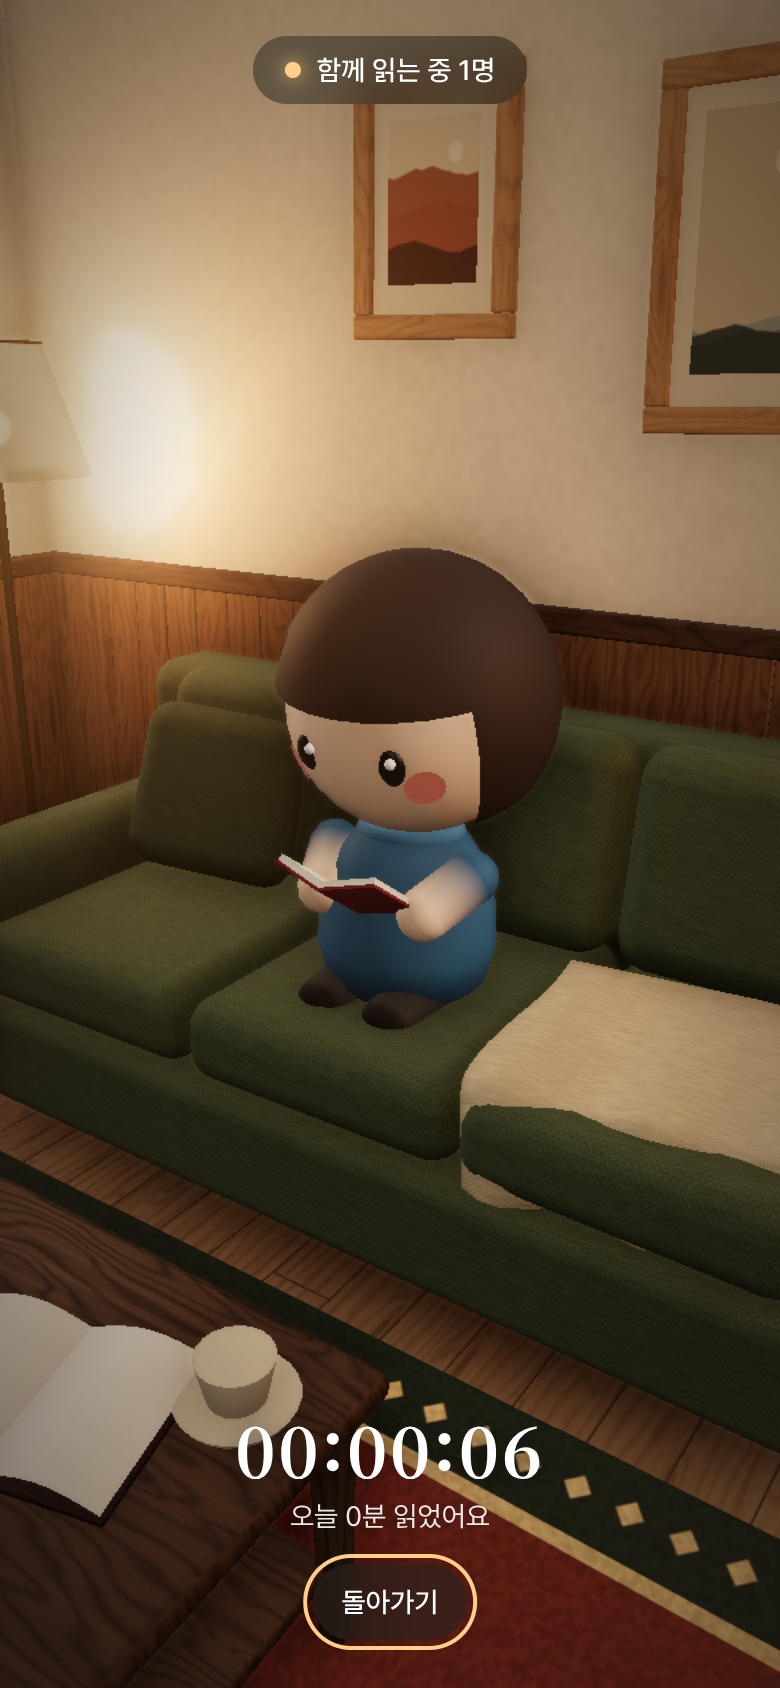
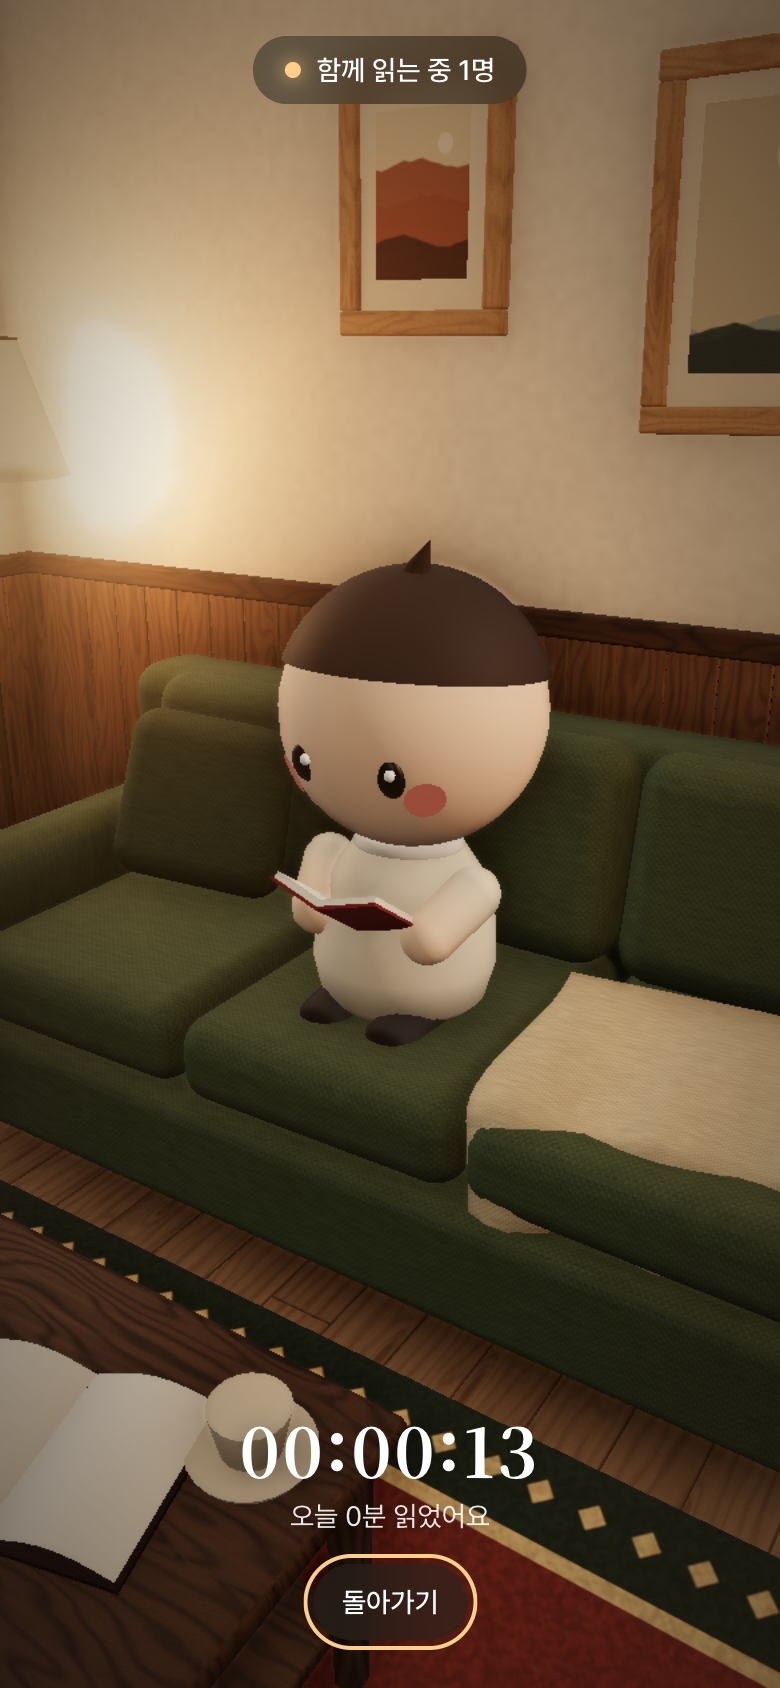
단계 8: e2e 전체 통과, 최종 캡처·REVIEW 재판정, README 완성
- ws 모드도 pagehide에서 바로 leave (탭 닫힘이 늦게 반영되던 문제)
- 기본 아바타 시점을 조금 올려 서가가 더 보이게 (22°, 시선 0.9m)
- 성능 재측정, PROGRESS·REVIEW·README 갱신

diff --git a/src/net/wsPresence.ts b/src/net/wsPresence.ts
@@ -25,6 +25,9 @@ export class WsPresence extends PeerTracker implements Presence {
   private lastSent = 0;
   private pending = 0;
 
+  /** 탭을 닫을 때 서버의 하트비트 정리(최대 20초)를 기다리지 않고 바로 나갔다고 알린다 */
+  private onHide = () => this.disconnect();
+
   constructor(private url: string) {
     super();
   }
@@ -38,6 +41,7 @@ export class WsPresence extends PeerTracker implements Presence {
     this.selfId = me.id;
     this.attempt = 0;
     this.setStatus('connecting');
+    addEventListener('pagehide', this.onHide);
     return new Promise((resolve) => this.open(resolve));
   }
 
@@ -93,6 +97,7 @@ export class WsPresence extends PeerTracker implements Presence {
   }
 
   disconnect(): void {
+    removeEventListener('pagehide', this.onHide);
     this.closedByUser = true;
     clearTimeout(this.retry);
     clearInterval(this.heartbeat);

diff --git a/src/app.ts b/src/app.ts
@@ -89,7 +89,7 @@ export async function startApp(params: Params, canvas: HTMLCanvasElement, loadin
 
   const follow = new FollowCamera(camera, SPAWN.ry + Math.PI);
   follow.reducedMotion = reducedMotion();
-  const fitLook = () => (follow.lookHeight = camera.aspect < 0.8 ? 1.05 : 0.62);
+  const fitLook = () => (follow.lookHeight = camera.aspect < 0.8 ? 1.25 : 0.9);
   fitLook();
   follow.follow(me.root.position, true);
   const fixedCam = params.cam && params.cam !== 'avatar' ? params.cam : null;

diff --git a/src/controls/camera.ts b/src/controls/camera.ts
@@ -49,11 +49,11 @@ export const MIN_DIST = 1.5, MAX_DIST = 7;
  */
 export class FollowCamera {
   yaw: number;
-  pitch = 27 * DEG;
+  pitch = 22 * DEG;
   distance = 3.3;
   readonly target = new THREE.Vector3();
   private goal = new THREE.Vector3();
-  private shown = { yaw: 0, pitch: 27 * DEG, dist: 3.3 };
+  private shown = { yaw: 0, pitch: 22 * DEG, dist: 3.3 };
   reducedMotion = false;
 
   constructor(private cam: THREE.PerspectiveCamera, yaw: number) {

diff --git a/docs/screens/REVIEW.md b/docs/screens/REVIEW.md
@@ -54,3 +54,33 @@
 ### 성능(헤드리스, 보통 품질, 아바타 3~4명)
 - 메인 장면 패스: 드로우콜 75~78, 삼각형 약 21만 → 예산(150 / 60만) 안
 - 프레임 전체(AO 깊이·법선, Bloom 단계, 출력 패스 포함): 드로우콜 163~168
+
+## 단계 8 — 2026-11-01 (세션 3, 최종)
+
+- 캡처: `npm run capture` → `overview`·`with-visitors`·`reader` × 데스크톱(1440×900)·모바일(390×844 @2x) 6장, 콘솔 에러 0개(`capture-log.json`)
+- 조건: 헤드리스 크로미움 + SwiftShader, 보통 품질(동행 탭은 낮음). 높음 품질 창가는 수동 확인(창유리 빗방울)
+- `docs/reference/`에 참고 이미지 없음 → 비교 생략
+- 6장을 모두 직접 열어 보고 판정했다.
+
+| # | 항목 | 판정 | 근거(캡처에서 본 것) |
+|---|---|---|---|
+| 1 | 화면 70% 이상이 의미 있는 오브젝트 | 통과 | `overview`: 소파·러그·낮은 테이블, 서가 3개, 평대, 독서 테이블, 벤치, 창 2개, 펜던트, 간판이 화면을 채움. `with-visitors`: (이번에 카메라 시선을 올린 뒤) 서가 3개·창 2개·평대·벤치·화분·다른 방문객이 위 2/3을 채우고, 아래는 창빛이 떨어진 마루와 러그. 모바일도 서가·창·평대·간판이 세로 화면 위 3/4. `reader`: 소파·스탠드·징두리·러그가 화면 전체. |
+| 2 | 마루 널 패턴·나뭇결 | 통과 | 12cm 널, 엇갈린 이음매, 널마다 색조 차이. 평대 측면·서가·징두리에 세로 나뭇결. 마루 결 무늬는 여전히 조금 굵다(개선 여지, 남은 이슈). |
+| 3 | 책 높이·두께·색 제각각, 빈틈·기운 책 | 통과 | 서가마다 칸별 밀도가 다르고, 빈틈·기운 책·눕힌 더미·같은 색 시리즈·북엔드가 보임. 평대 위 눕힌 더미와 세운 추천 책. |
+| 4 | 가구 모서리 베벨 | 통과 | 평대 상판, 소파 쿠션·팔걸이, 벤치 방석, 서가 상판 몰딩, 독서 테이블 상판의 둥근 모서리 하이라이트. `reader`의 소파 쿠션 근접에서 특히 분명. |
+| 5 | 부드러운 그림자와 접지 어둠(AO) | 통과 | 평대 굽·벤치·소파·낮은 테이블 밑 접지 어둠, 아바타 발밑 그림자, 쿠션 틈 AO. |
+| 6 | 창으로 들어온 빛이 바닥에 형태로 | 통과 | 오른쪽 창 앞 마루에 창살 격자 모양 밝은 영역(데스크톱 두 장 모두), 평대 왼쪽에도 옅은 창빛. |
+| 7 | 전구 주변 은은한 Bloom, 과하지 않음 | 통과 | 펜던트 3개와 스탠드 갓 주변에 작은 번짐. `reader`에서 스탠드 뒤 벽이 밝게 번지지만 결이 남아 있고 화면을 뿌옇게 덮지 않음. |
+| 8 | 따뜻한 색온도, 날아간·검은 영역 없음 | 통과 | 전체가 베이지·꿀색·녹색. 창빛 마루가 가장 밝지만 널 무늬가 보임. 검게 뭉친 영역 없음(출입문 유리 쪽이 가장 어둡지만 형태가 보임). |
+| 9 | 창밖 하늘과 건물 실루엣 | 통과 | 흐린 하늘, 지붕선, 나무 실루엣, 가로등 불빛, 빗줄기. 높음 품질에서는 유리에 맺힌 물방울과 흘러내리는 물줄기(수동 캡처로 확인). |
+| 10 | 아바타 귀엽고 비율 일정, 이름표 읽힘 | 통과 | 모든 아바타가 같은 큰 머리 비율, 볼 홍조, 머리 3종·옷 색. 이름표(닉네임 + 옷 색 점)가 데스크톱·모바일 모두 읽힘. 읽는 아바타 머리 위 책 아이콘. `reader`에서 두 손으로 든 책과 숙인 고개. |
+
+UI(SPEC 14장 "데스크톱·모바일 폭에서 깨지지 않음"): 상단 좌우 필, 하단 액션 3개, 읽기 모드의 "함께 읽는 중 N명"·타이머·오늘 읽은 시간·돌아가기가 6장 모두 겹치지 않음. 모바일은 "나가기" 글자를 숨기고 아이콘만.
+
+### 수정 이력
+1. `with-visitors`에서 기본 아바타 시점이 너무 내려다봐 마루가 화면 아래 40% 가까이를 차지(1번 항목이 아슬아슬) → 기본 각도 27°→22°, 시선 높이 0.62→0.9m(세로 화면 1.05→1.25m)로 올려 서가·창·간판이 더 들어오게 함. 다시 찍어 확인.
+2. 높음 품질 창유리 빗방울 셰이더 추가(단계 2부터 남은 항목).
+
+### 다음에 볼 것
+- 마루 결을 곧은 오크 결로 더 차분하게(지금은 합판처럼 굵게 휘는 결)
+- 보통 품질 개요 시점에서 창밖 건물 대비가 약함

diff --git a/PROGRESS.md b/PROGRESS.md
@@ -3,7 +3,7 @@
 세션 간 인수인계 문서. 단계마다 "한 일 / 확인 방법 / 남은 일"을 적는다.
 기준: SPEC-v3.md 13장. 계획 상세는 PLAN.md.
 
-현재 상태: **세션 3 진행 중 — 단계 1~6 통과. 단계 7·8 작업 중** (저장소 yonghee0330/readplace_v2, 브랜치 session-3-finish. PR #1·#2는 main에 병합, GitHub Pages 배포 중)
+현재 상태: **세션 3 완료 — 단계 1~8 모두 통과** (저장소 yonghee0330/readplace_v2, 브랜치 session-3-finish. PR #1·#2는 main에 병합, GitHub Pages 배포 중)
 
 ---
 
@@ -102,20 +102,29 @@
 
 | 품질 | 시점 | 메인 패스 콜 / 삼각형 | 프레임 전체 콜 / 삼각형 | 텍스처 최대 | fps(Mac GPU) |
 |---|---|---|---|---|---|
-| 낮음 | 아바타 / 전체 | 69 / 21.0만 · 82 / 21.5만 | 70 / 21.0만 · 83 / 21.5만 | 1024 | 60 / 60 |
-| 보통 | 아바타 / 전체 | 70 / 21.0만 · 83 / 21.4만 | 153 / 41.8만 · 179 / 42.6만 | 1024 | 60 / 60 |
-| 높음 | 아바타 / 전체 | 70 / 21.0만 · 83 / 21.5만 | 152 / 41.8만 · 178 / 42.9만 | 1024 | 54 / 60 |
+| 낮음 | 아바타 / 전체 | 70 / 21.0만 · 82 / 21.4만 | 71 / 21.0만 · 83 / 21.4만 | 1024 | 60 / 60 |
+| 보통 | 아바타 / 전체 | 71 / 21.0만 · 83 / 21.5만 | 155 / 41.8만 · 179 / 42.9만 | 1024 | 60 / 60 |
+| 높음 | 아바타 / 전체 | 72 / 20.8만 · 84 / 21.4만 | 155 / 41.6만 · 179 / 42.6만 | 1024 | 60 / 60 |
 
-  메인 패스는 예산(150콜·60만) 안. 프레임 전체는 AO가 깊이·법선을 얻으려고 장면을 한 번 더 그려 150을 조금 넘는다(README 남은 이슈에 기록). 헤드리스 SwiftShader에서는 10~15fps(참고).
+  메인 패스는 예산(150콜·60만) 안. 프레임 전체는 AO가 깊이·법선을 얻으려고 장면을 한 번 더 그려 150을 조금 넘는다(README 남은 이슈에 기록). 헤드리스 SwiftShader에서는 10~15fps(참고). 높음 품질은 창유리 빗방울 판 1콜 포함.
 - e2e 추가: "접근성·소리·PWA" — 동작 줄이기 켠 상태로 Tab→Enter로 입장, Tab 정지점마다 이름·포커스 링 확인, 설정 시트 Enter/Esc + 포커스 복귀, 소리 Enter → AudioContext running·게인 0.7 이상 → 다시 Enter → 0, W로 걷기, 1 눈인사, 3 읽기 모드(HUD에 Tab이 닿지 않음), Esc 복귀, manifest 아이콘·서비스워커 ready.
 - 확인 방법: `npm run typecheck && npm run build` 통과, `npx playwright test -g "키보드만으로"` 통과.
 
 ## 단계 8 — e2e, 최종 캡처, README
-- [ ] npm run test:e2e 전체 통과 + 콘솔 에러 0
-- [ ] overview / with-visitors / reader × 데스크톱·모바일
-- [ ] REVIEW.md 7장 전체 재판정
-- [ ] README 완성
-- 통과 조건: SPEC 14장 전부
+- [x] npm run test:e2e 전체 통과 + 콘솔 에러 0
+- [x] overview / with-visitors / reader × 데스크톱·모바일
+- [x] REVIEW.md 7장 전체 재판정
+- [x] README 완성
+- 통과 조건: SPEC 14장 전부 → **통과**
+
+### 단계 8 결과 (세션 3)
+- e2e 4개(`npm run test:e2e`, Mac 약 5분) 전부 통과, 모든 페이지 콘솔 에러 0: 함께 있기 Local / 함께 있기 ws / 읽기 모드 / 키보드·클릭·소리·PWA. 마지막 테스트에 바닥 클릭 이동과 의자·벤치 클릭 앉기를 넣어 14장 흐름(로딩 → 서점 → 클릭 이동·앉기 → 눈인사·책 펼치기 → 읽기 모드 → 돌아가기)을 모두 자동으로 확인.
+- 고친 것:
+  - ws 모드에서 탭을 닫아도 서버 하트비트 정리(최대 20초)까지 남아 있어 e2e가 가끔 실패 → `WsPresence`도 `pagehide`에서 바로 leave를 보냄.
+  - 앉으러 미끄러져 들어가는 동안 상태는 sit인데 seatId가 null로 전송되던 문제 → `Movement.seatId` 하나로 통일.
+  - 기본 아바타 시점이 너무 내려다봐 마루가 화면을 많이 차지 → 각도 22°, 시선 높이 0.9m(세로 1.25m).
+- 캡처 6장 다시 찍고 SPEC 7장 1~10 전체 재판정 → 모두 통과(`docs/screens/REVIEW.md` 단계 8 절).
+- README: 사용법(읽기 모드·소리·키보드·설치), 실행·명령표·e2e 범위, 배포(하위 경로·다른 정적 호스팅·서비스워커), 서가 책 바꾸기(책 본문 없음 안내), glb 교체, Supabase/Durable Objects 전환, 성능 표, 알려진 한계, 남은 이슈.
 
 ---
 
